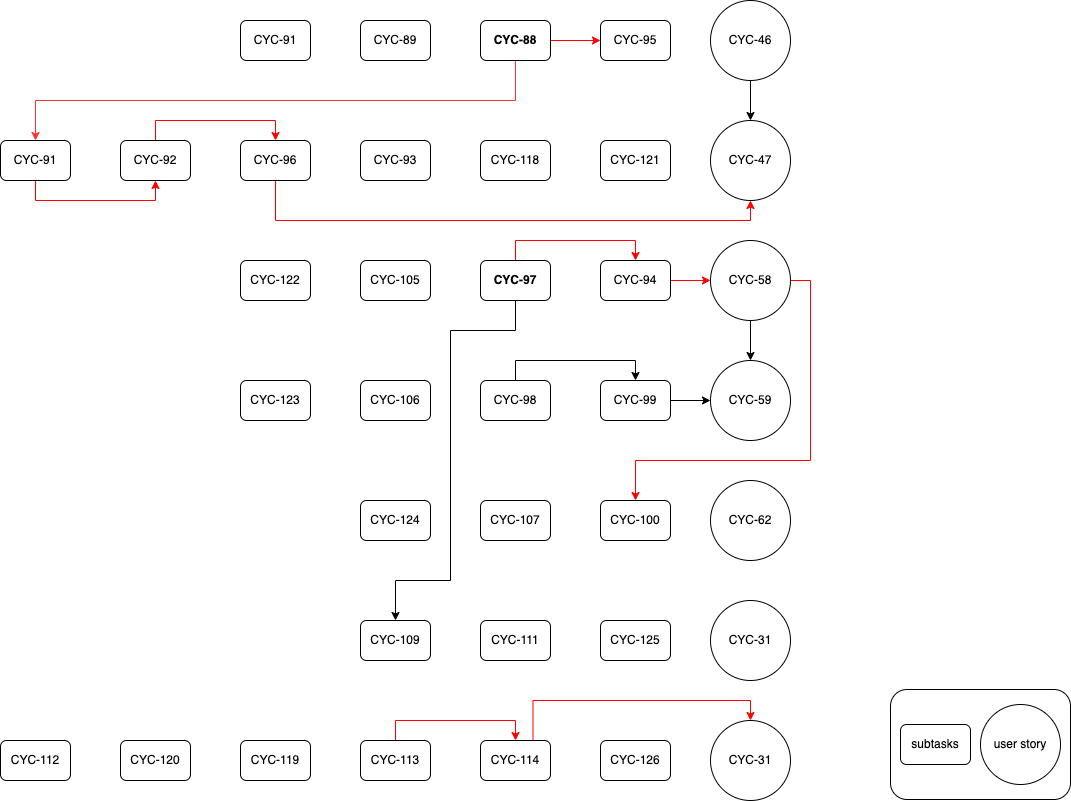
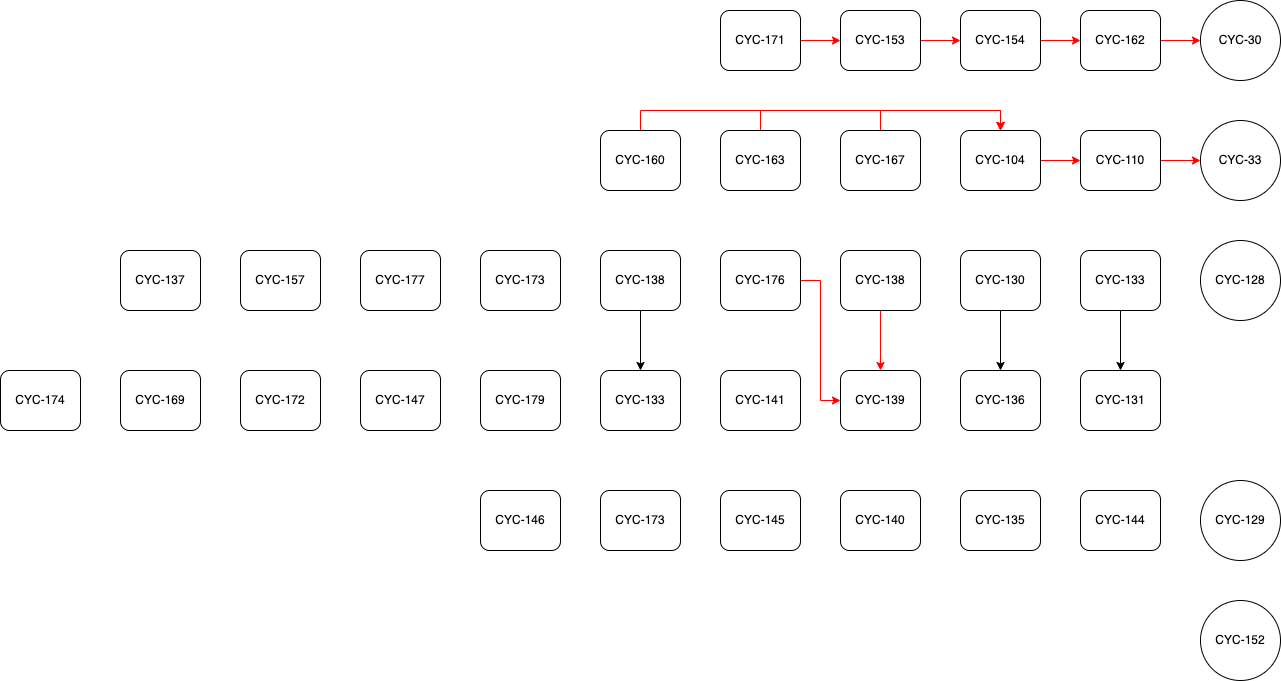
update schedule and sprint3.md

diff --git a/doc/sprint3/asset/schedule.md b/doc/sprint3/asset/schedule.md
@@ -4,14 +4,13 @@
 
 The diagram is structured top to bottom and left to right. Circles indicate user
 stories and rounded rectangles are subtasks of the user stories on the same row.
-The arrowed lines indicate the dependencies. For example CYC-88 is the
-dependency for CYC-91. Bold text is the start of each critical path. The
+The arrowed lines indicate the dependencies.  The
 unlinked subtasks in rounded rectangles mean that they are flexible and can be
 implemented anytime for that user story. And the intended order of
 implementation is preferred to be from left to right on each row and top to
 bottom for each user story if not linked, otherwise, the order should follow the
 critical path. We prioritized the tasks that located at the start of each
-critical path in order to minimize the delay of Sprint2 and keep the team on
+critical path in order to minimize the delay of Sprint3 and keep the team on
 schedule.
 
 
@@ -22,3 +21,4 @@ schedule.
 2. Set up GitHub webhook in our Discord server
 3. Update Jira right after a task in completed
 4. Post update or question in Discord `#team-update` channel
+5. Have a Google Doc to keep track of all TODOs.

diff --git a/doc/sprint3/sprint3.md b/doc/sprint3/sprint3.md
@@ -19,10 +19,10 @@ experience.
 - CYC-30: modify task
   - CYC-153: add pencil button beside each task to edit
   - CYC-154: clicking a task brings up edit page
-  - CYC-108: create backend functions up update task
+  - CYC-108: create backend functions update task
   - CYC-171: backend - provide a function to delete task
   - CYC-162: frontend - the pencil button should be visible only when hovering
-    over on a task
+    over on a task 
 - CYC-33: signifiers / actions on the tasks
   - CYC-104: display symbol on the left of the task depending on the task’s type
   - CYC-110: backend- create a relative function to update different
@@ -34,7 +34,6 @@ experience.
   - CYC-130: daily log should display in grid layout
   - CYC-136: daily log should be able to scroll
   - CYC-131: monthly log add calendar on left hand side
-  - CYC-132: monthly log: drag and drop tasks into days
   - CYC-133: monthly log: display monthly tasks on the right hand side of the
     screen
   - CYC-138: future log: display all months of the year in grid layout
